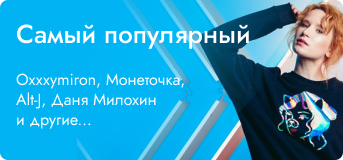
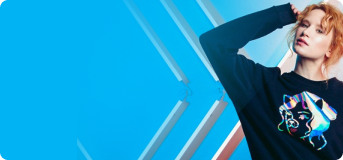
monetochka

diff --git a/js/player.js b/js/player.js
@@ -10,3 +10,40 @@ visBtn.onclick = () => {
 	player[0].classList.toggle('player-hidden');
 	player[0].classList.toggle('player-showen');
 };
+
+
+
+document.addEventListener('touchstart', handleTouchStart, false);
+document.addEventListener('touchmove', handleTouchMove, false);
+
+
+let x1 = null;
+let y1 = null;
+
+function handleTouchStart(event) {
+    const firstTouch = event.touches[0];
+    x1 = firstTouch.clientX;
+    y1 = firstTouch.clientY
+    // console.log(x1, y1);
+}
+
+function handleTouchMove(event) {
+    if (!x1 || !y1) {
+        return false;
+    }
+    let x2 = event.touches[0].clientX;
+    let y2 = event.touches[0].clientY;
+    // console.log(x2, y2);
+    let xDiff = x2 - x1;
+    let yDiff = y2 - y1;
+
+    if (Math.abs(xDiff) < Math.abs(yDiff)) {
+        if (yDiff > 0) 
+        {
+            player[0].classList.toggle('player-hidden');
+        }
+        else player[0].classList.toggle('player-showen');
+    }
+    x1 = null;
+    y1 = null;
+}

diff --git a/css/player.css b/css/player.css
@@ -42,7 +42,8 @@ body {
 	width: 100%;
 	display: flex;
 	justify-content: flex-end;
-	margin-bottom: 45px;
+	/* margin-bottom: 45px; */
+	margin-bottom: 5%;
 }
 
 .player-menu-btn {
@@ -52,9 +53,10 @@ body {
 .player-cover {
 	width: 100%;
 	max-width: calc((100vh - 42px) / 2);
-	/* Раскомментируй, как поменяешь обложку на исходник (в HTML)*/
+	/* Раскомментировать, как поменяю обложку на исходник (в HTML)*/
 	/* filter: drop-shadow(0px 14px 24px rgba(0, 0, 0, 0.5)); */
-	margin-bottom: 24px;
+	/* margin-bottom: 24px; -- очень странный отступ без адаптива */
+	margin-bottom: 5%;
 }
 
 .player-info {

diff --git a/css/home.css b/css/home.css
@@ -39,7 +39,7 @@ main {
 	margin-bottom: 27px;
 	color: white;
 	/* Тут адрес к фону баннера */
-	background-image: url(../);
+	background-image: url(../Popular.png);
 	background-size: cover;
 	background-position: center
 }
